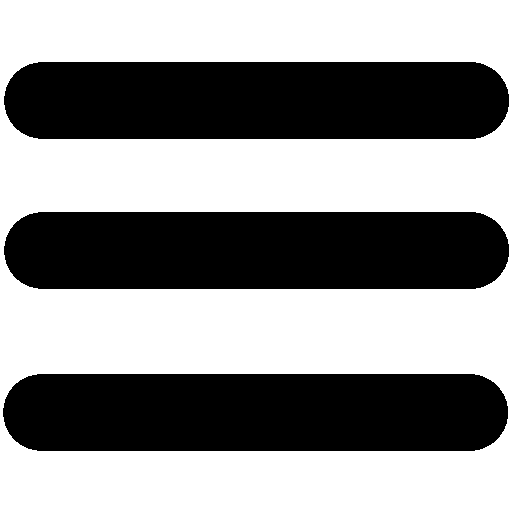
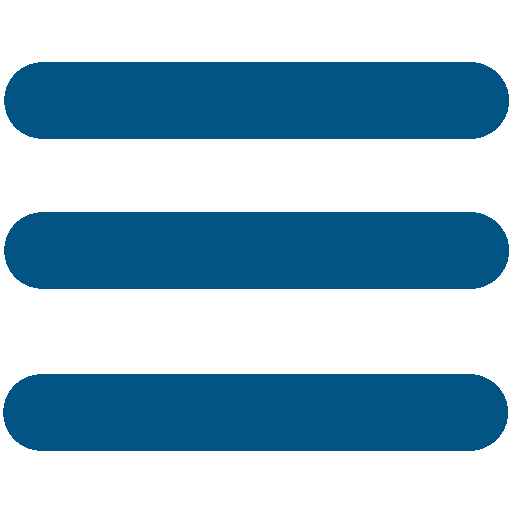
Add files via upload

diff --git a/nav.js b/nav.js
@@ -46,7 +46,7 @@ __SYD.mobileMenuLogo = () =>{
     return __c(
         "div",
         {
-            style:`height:40px;width:60px;position:absolute;top:21px;right:${__p(["navBar" , "mobilePadState"], false) ? "30px" : "50px"};background-color:transparent;border:1px solid #171717;border-radius:5px;display:${__p(["navBar" , "desktopMode"],true) ? "none" : "block"};cursor:pointer;background-image:url(./assets/menu.png);background-size:45%;`
+            style:`height:40px;width:60px;position:absolute;top:21px;right:${__p(["navBar" , "mobilePadState"], false) ? "30px" : "50px"};background-color:transparent;border:1px solid #015484;border-radius:5px;display:${__p(["navBar" , "desktopMode"],true) ? "none" : "block"};cursor:pointer;background-image:url(./assets/menu.png);background-size:45%;`
         },[],
         {
             genericStyle:['bg_cover'],
@@ -71,7 +71,7 @@ __SYD.mobileNav = () =>{
             __c(
                 "div",
                 {
-                    style:`height:fit-content;height:100%;margin-top:${__p(["navBar" , "mobileNavExpand"], false) ? "0px" : "0px"};padding:20px 25px;display:flex;background:#000;flex-direction:column;justify-content:space-between;`
+                    style:`height:fit-content;height:100%;margin-top:${__p(["navBar" , "mobileNavExpand"], false) ? "0px" : "0px"};padding:20px 25px;display:flex;background:rgb(2, 35, 55) ;flex-direction:column;justify-content:space-between;`
                 },
                 [
                     __c(
@@ -80,9 +80,9 @@ __SYD.mobileNav = () =>{
                             style:"display:flex;flex-direction:column;gap:30px;"
                         },
                         [
-                            __SYD.desktopNav_textContent_text({val:"Home" , ref:"#p1" , clr:"#fff"}),
-                            __SYD.desktopNav_textContent_text({val:"Create" , ref:"/agent/create.html" , clr:"#fff"}),//
-                            __SYD.desktopNav_textContent_text({val:"Docs" , ref:"" , clr:"#fff"}),
+                            __SYD.desktopNav_textContent_text({val:"Home" , ref:"#p1" , clr:"#02819d"}),
+                            __SYD.desktopNav_textContent_text({val:"Create" , ref:"/agent/create.html" , clr:"#02819d"}),//
+                            __SYD.desktopNav_textContent_text({val:"Docs" , ref:"" , clr:"#02819d"}),
                         ]
                     ),
                     // __SYD.desktopNav_textContent_text({val:"tokenomics" , ref:"p6"}),
@@ -125,7 +125,7 @@ __SYD.desktopNav_textContent = () =>{
     )
 }
 
-__SYD.desktopNav_textContent_text = ({val = "home" , ref , clr}) =>{
+__SYD.desktopNav_textContent_text = ({val = "home" , ref , clr = "#02819d"}) =>{
     return __c(
         "div",
         {
@@ -135,7 +135,7 @@ __SYD.desktopNav_textContent_text = ({val = "home" , ref , clr}) =>{
             __c(
                 "a",
                 {
-                    style:`font-weight:700;text-transform:capitalize;font-size:16px;transition:all linear .2s;color:${clr ? clr : "#000"};`,
+                    style:`font-weight:700;text-transform:capitalize;font-size:16px;transition:all linear .2s;color:${clr !== undefined ? clr : "#02819d"};`,
                     href:`${ref}`
                 },
                 [
@@ -147,7 +147,7 @@ __SYD.desktopNav_textContent_text = ({val = "home" , ref , clr}) =>{
                             e.target.style.color = "#015484"
                         },
                         onmouseout:e =>{
-                            e.target.style.color = clr ? clr : "#000"
+                            e.target.style.color = clr ? clr : "#02819d"
                         },
                     }
                 }

diff --git a/footer.js b/footer.js
@@ -44,7 +44,7 @@ __SYD.footer_main_child2 = () =>{
             style:'display:flex;height:fit-content;width:50%;min-width:fit-content;flex-direction:column;padding:10px;row-gap:20px;margin-top:50px;align-items:center;'
         },
         [
-            __SYD.text_lib_type_h1_glob({cnt:'Socials' , size:'20px' , w:'700' , inject:'text-decoration:underline;',clr:'#000'}),
+            __SYD.text_lib_type_h1_glob({cnt:'Socials' , size:'20px' , w:'700' , inject:'text-decoration:underline;',clr:'#015484'}),
             __c(
                 'div',
                 {
@@ -61,7 +61,7 @@ __SYD.footer_main_child2 = () =>{
                                 {style:'display:flex;column-gap:10px;padding:5px;width:fit-content;align-items:center'},
                                 [
                                     __SYD.iconify_20px({attr:'fa-brands fa-x-twitter' , clr :'#015484'}),//<i class="fa-solid fa-envelope-open-text"></i>
-                                    __c('a',{href:"ivviera@gmail.com"},[__SYD.text_lib_type_p_glob_vmax({cnt:'Twitter', size:'14px' , w:'500',clr:'#000'})]),
+                                    __c('a',{href:"ivviera@gmail.com"},[__SYD.text_lib_type_p_glob_vmax({cnt:'Twitter', size:'14px' , w:'500',clr:'#015484'})]),
                                 ]
                             ),
                 
@@ -70,7 +70,7 @@ __SYD.footer_main_child2 = () =>{
                                 {style:'display:flex;column-gap:10px;padding:5px;width:fit-content;align-items:center'},
                                 [
                                     __SYD.iconify_20px({attr:'fa-brands fa-telegram' , clr :'#015484'}),//<i class="fa-solid fa-phone-volume"></i>
-                                    __c('a',{href:"tel:07072111027"},[__SYD.text_lib_type_p_glob_vmax({cnt:'Telegram', size:'14px' , w:'500',clr:'#000'})]),
+                                    __c('a',{href:"tel:07072111027"},[__SYD.text_lib_type_p_glob_vmax({cnt:'Telegram', size:'14px' , w:'500',clr:'#015484'})]),
                                 ]
                             ),
                 

diff --git a/variable.js b/variable.js
@@ -6,7 +6,7 @@ SYD_VAR.page1MainFont_1 = new SYD_VAR_constructor({value:"50px"});
 
 SYD_VAR.p1CAText = new SYD_VAR_constructor({value:"---------------------------------------"})
 
-SYD_VAR.buttonStyle1 = new SYD_VAR_constructor({value:"min-height:50px;width:fit-content;padding:0 30px;background: #015484;text-transform:capitalize;display:flex;align-items:center;border-radius:7px;cursor:pointer;color:#ffffff;font-weight:900;"})
+SYD_VAR.buttonStyle1 = new SYD_VAR_constructor({value:"min-height:50px;width:fit-content;padding:0 30px;background: #015484;text-transform:capitalize;display:flex;align-items:center;border-radius:7px;cursor:pointer;color: #03cefc ;font-weight:900;"})
 
 SYD_VAR.page2Text1 = new SYD_VAR_constructor({value:"font-size:20px;font-weight:500;text-transform:capitalize;color: rgba(29, 11, 78, 0.68);"});
 
@@ -16,7 +16,7 @@ SYD_VAR.page3Text4 = new SYD_VAR_constructor({value:"font-size:22px;font-weight:
 
 SYD_VAR.page2Text3 = new SYD_VAR_constructor({value:"font-size:18px;font-weight:400;color:rgb(17, 16, 41);"});
 
-SYD_VAR.pag1SubText = new SYD_VAR_constructor({value:"font-size:16px;font-weight:700;line-height:30px;max-width:600px;color: #000;text-align:center;"});
+SYD_VAR.pag1SubText = new SYD_VAR_constructor({value:"font-size:16px;font-weight:700;line-height:30px;max-width:600px;color: #02819d;text-align:center;"});
 
 
 __sS([

diff --git a/page5.js b/page5.js
@@ -108,7 +108,7 @@ __SYD.p5_text5 = (textContent , align) =>{
         "div",
         {},
         [
-            __c("p" , {style:`${SYD_VAR.pag1SubText.get()} font-weight:300;color:#000; text-align:${align === "right" ? "left" : "right"};`},[textContent])
+            __c("p" , {style:`${SYD_VAR.pag1SubText.get()} font-weight:300;color:#02819d; text-align:${align === "right" ? "left" : "right"};`},[textContent])
         ]
     )
 }
@@ -146,7 +146,7 @@ __SYD.p5_tab = ({title , text , position , tab}) =>{
                     __c(
                         "p",
                         {
-                            style:"height:calc(100%); width:calc(100%); background:#03b3da;text-align:center;display:flex;justify-content:center;align-items:center;" + SYD_VAR.page2Text2.get() + "color:#000;font-weight:400;"
+                            style:"height:calc(100%); width:calc(100%); background:#03b3da;text-align:center;display:flex;justify-content:center;align-items:center;" + SYD_VAR.page2Text2.get() + "color:#015484;font-weight:600;"
                         },
                         [
                             `#PHASE ${tab}`
